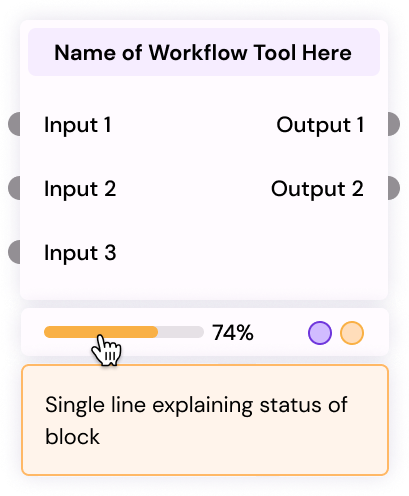
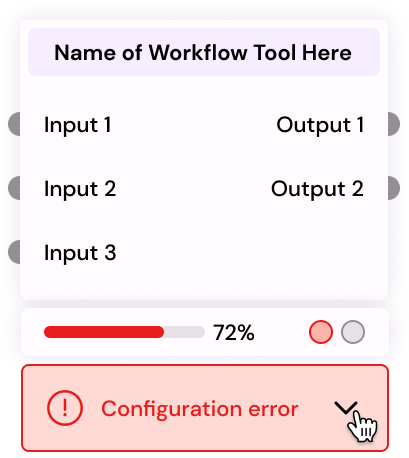
GITBOOK-8: No subject

diff --git a/flow.md b/flow.md
@@ -22,17 +22,22 @@ Move blocks from the Component store to the workspace with ease. It's all about 
 #### Understanding Block Statuses
 
 1. Block status and Error:
-   1. **Configuration Errors**: Think of these as alerts that something's not quite right with your setup.
-
-<figure><img src=".gitbook/assets/image.png" alt="" width="205"><figcaption></figcaption></figure>
-
-2\. **Dataset-Level Errors**: These indicate issues within your data, but don't worry, not all is lost—some parts can still proceed.
+   * **Configuration Errors**: Think of these as alerts that something's not quite right with your setup.
 
 <figure><img src=".gitbook/assets/image (1).png" alt="" width="205"><figcaption></figcaption></figure>
 
-3\. **Success Indicators**: this indicates Your block is correctly configured, and your data is flowing smoothly.
+* &#x20;**Runtime Warning** : These indicate issues within your data, but don't worry, not all is lost—some parts can still proceed.
+
+<figure><img src=".gitbook/assets/image (1) (1).png" alt="" width="205"><figcaption></figcaption></figure>
+
+*   Runtime error: These indicate, the block ran without data.
+
+    <figure><img src=".gitbook/assets/image.png" alt="" width="205"><figcaption></figcaption></figure>
+* &#x20;**Success Indicators**: this indicates Your block is correctly configured, and your data is flowing smoothly.
 
 <figure><img src=".gitbook/assets/image (2).png" alt="" width="205"><figcaption></figcaption></figure>
+
+
 
 Connecting Blocks: The Right Fit\
 1\. **Correct Connection**: ensure the data types align for a perfect fit.
@@ -52,16 +57,18 @@ Observe the block you're able to understand the data type ,if you hover into the
 <figure><img src=".gitbook/assets/console.png" alt=""><figcaption></figcaption></figure>
 
 1. **Save**: Preserve created components for future modification or processing
-2. **Run All**: Execute all functions sequentially after configuring block properties and inputs without interruption.
-3. **Run** : Run individual blocks one-by-one to perform specific functions.
-4. **Undo**: Reverse the last user action in case of mistakes or changes of mind.
-5. **Redo**: Repeat the last undone action, useful for correcting mistakes or reapplying changes.
-6. **Lock**: Restrict block movement in the workspace by locking components; unlock to enable movement.
-7. **Zoom In**: Enlarge workflow for focusing on specific details.
-8. **Fit**: Adjust workflow to fit within the visible or reset to original size.
-9. **Zoom Out**: Reduce the size of displayed content to see more on the screen at once.
-10. **Deploy**: When ready to take use cases live, deploy seamlessly using various modes (scheduled, Web Endpoint, or Event Driven).
-11. **Console**: The Console lets you see the activity logs of each block in your workflow. This helps you track what each block is doing and if there are any issues.
+2. **Run** : Run individual blocks one-by-one to perform specific functions.
+3. **Undo**: Reverse the last user action in case of mistakes or changes of mind.
+4. **Lock**: Restrict block movement in the workspace by locking components; unlock to enable movement.
+5. Notification:  it contains product updates, Workflow Notifications and etc.&#x20;
+6. Menu:  In this menu you can see these options.
+   1. **Run All**: Execute all functions sequentially after configuring block properties and inputs without interruption.
+   2. **Zoom In**: Enlarge workflow for focusing on specific details.
+   3. **Fit**: Adjust workflow to fit within the visible or reset to original size.
+   4. **Zoom Out**: Reduce the size of displayed content to see more on the screen at once.
+   5. **Deploy**: When ready to take use cases live, deploy seamlessly using various modes (scheduled, Web Endpoint, or Event Driven).
+   6. **Redo**: Repeat the last undone action, useful for correcting mistakes or reapplying changes
+   7. **Console**: The Console lets you see the activity logs of each block in your workflow. This helps you track what each block is doing and if there are any issues.
 
 ### Example Use Case: Customer Email Understanding
 

diff --git a/data-store.md b/data-store.md
@@ -23,9 +23,7 @@ Below are step-by-step configurations for each cloud storage option:
 
 #### Steps to Follow in AWS
 
-{% embed url="https://docs.aws.amazon.com/AmazonS3/latest/userguide/configuring-bucket-key.html" %}
-
-* Obtain the endpoint URL, access key, secret key and Region from your Amazon S3 bucket.
+* Obtain the endpoint URL, access key, secret key and Region from your [Amazon S3 bucket](https://docs.aws.amazon.com/AmazonS3/latest/userguide/configuring-bucket-key.html).
   1. Create a bucket on Amazon S3.
   2. Copy the bucket's URL (remove the "https" part) for the endpoint section.
   3. Access IAM on Amazon and create access keys. Use the access and secret keys for Augmatrix platform.
@@ -33,14 +31,11 @@ Below are step-by-step configurations for each cloud storage option:
 * Configure bucket permissions by adding CORS code for data extraction to Augmatrix platform.
 
 ```
-[    {  "AllowedOrigins": ["https://stage.augmatrix.ai"],
-
+[    
+   {    "AllowedOrigins": ["https://stage.augmatrix.ai"],
         "AllowedMethods": ["GET", "PUT", "POST"],
-
         "AllowedHeaders": ["*"],
-
         "MaxAgeSeconds": 3000
-
     }
 ]
 ```
@@ -60,10 +55,7 @@ Below are step-by-step configurations for each cloud storage option:
 **Steps-to-follow in Azure**
 
 * Enter the storage account name and account key (connection string).
-* Visit azure portal&#x20;
-
-{% embed url="https://portal.azure.com/" %}
-
+* Visit[ azure portal ](https://learn.microsoft.com/en-us/azure/storage/common/storage-account-create?tabs=azure-portal)
 * Create a storage account on Azure.
 * Inside the storage account, create a container.
 * Obtain the account name and key from the Azure portal for Augmatrix platform.
@@ -84,12 +76,10 @@ Below are step-by-step configurations for each cloud storage option:
 
 **Steps-to-Follow Inside Google Cloud**
 
-1. Enter the account key obtained from the Google Cloud console.
-   * Create a bucket in Storage Management on Google Cloud.
-   * Grant READ and WRITE permissions.
-   * Generate an API key in the Google Cloud console and paste it into the Augmatrix.io platform.
-
-{% embed url="https://cloud.google.com/docs/authentication/api-keys" %}
+* Enter the account key obtained from the Google Cloud console.
+  1. Create a bucket in Storage Management on Google Cloud.
+  2. Grant READ and WRITE permissions.
+  3. Generate an API key in the [Google Cloud console](https://cloud.google.com/docs/authentication/api-keys) and paste it into the Augmatrix.io platform.
 
 5. After Providing Bucket name and Keys
 6. click Test after successful connection

diff --git a/create-project.md b/create-project.md
@@ -1,6 +1,6 @@
-# Apps
+# Create Project
 
-In this section, you are able to create a project  to automation process.
+In this section, you are able to create a project  to automation process. and modify workflows.&#x20;
 
 1. Go to the "Projects" page.
 2. Click on "Create new project."

diff --git a/SUMMARY.md b/SUMMARY.md
@@ -2,7 +2,7 @@
 
 * [Platform Overview](README.md)
 * [Data store](data-store.md)
-* [Apps](apps.md)
+* [Create Project](create-project.md)
 * [Flow](flow.md)
 * [Annotation](annotation.md)
 * [MLOps](mlops.md)
